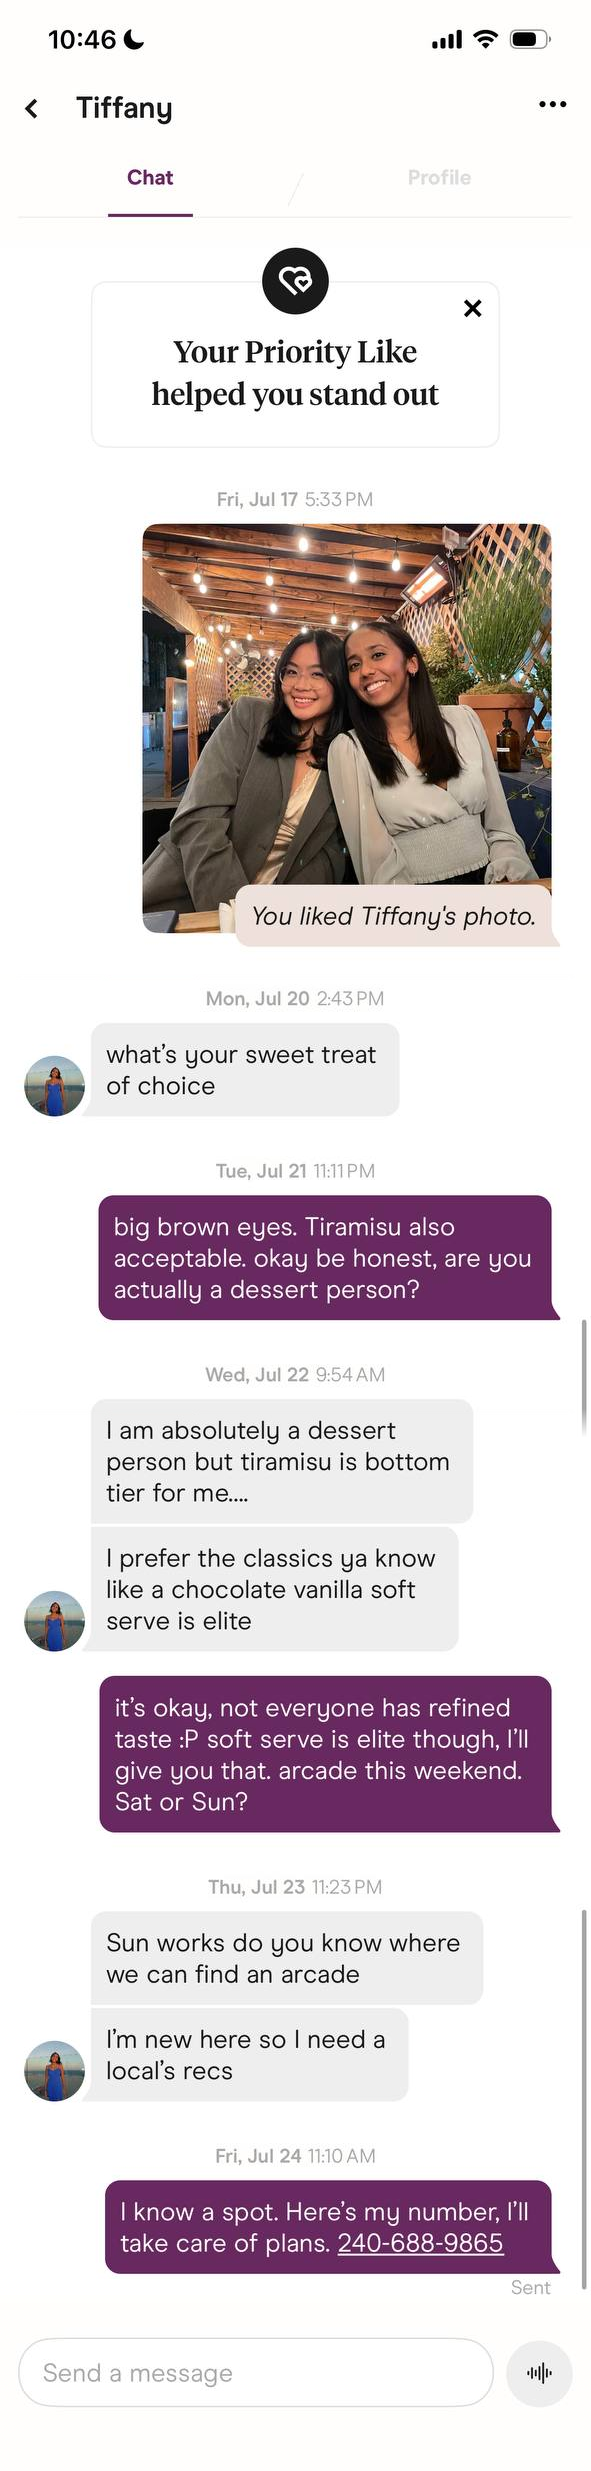
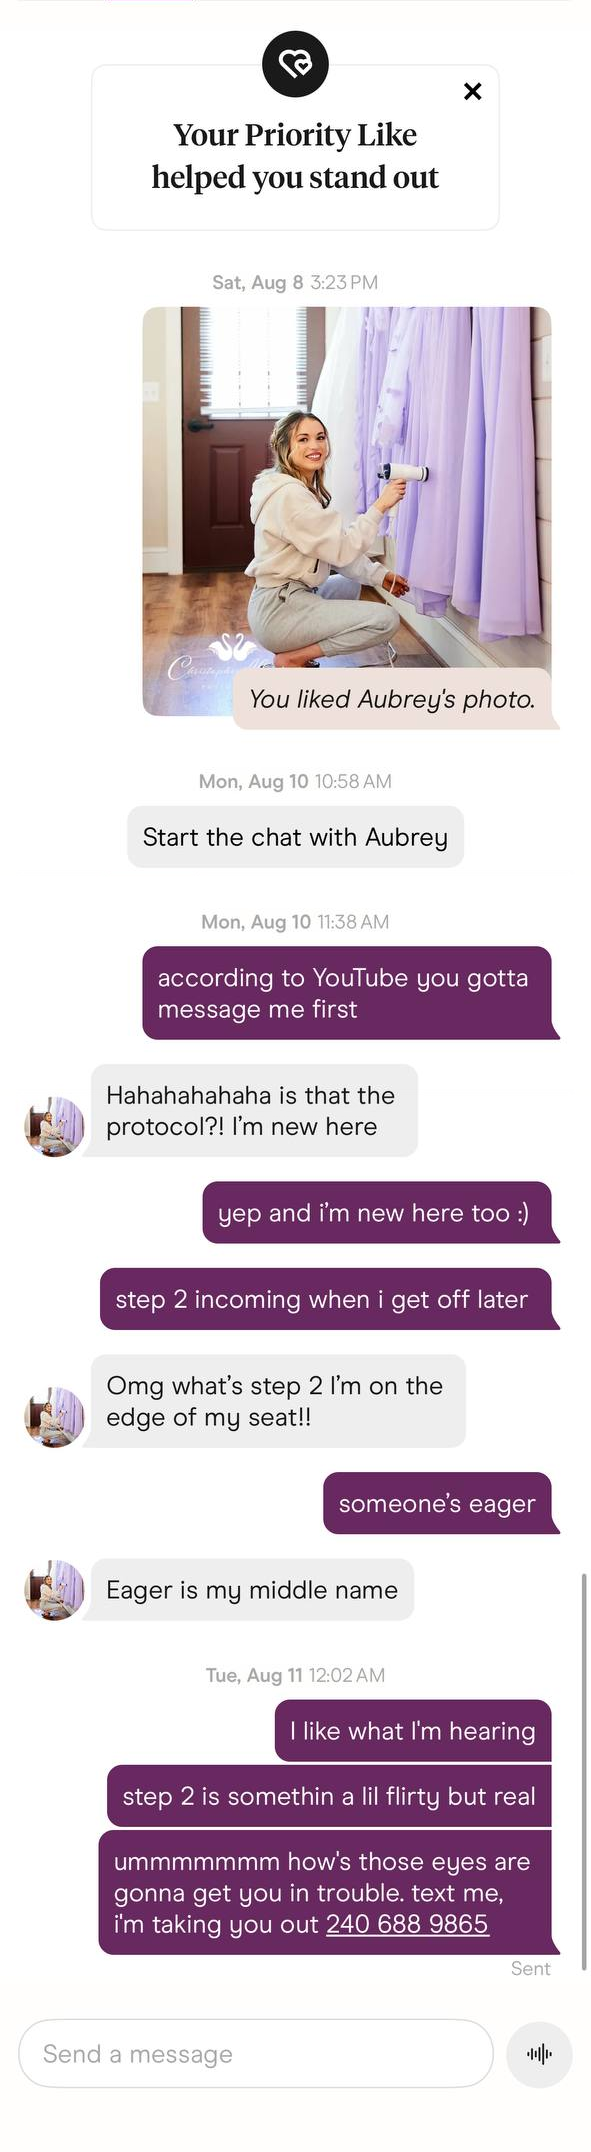
Remove top status bar

diff --git a/stitch.py b/stitch.py
@@ -41,14 +41,34 @@ def parse_args():
         help="Disable automatic static header/footer region detection."
     )
     parser.add_argument(
-        "--keep-header-footer", action="store_true", default=True,
-        help="Re-attach top header from 1st frame and bottom footer from last frame around stitched body (default: True)."
+        "--keep-header-footer", action="store_true", default=None,
+        help="Legacy flag: Re-attach both top header and bottom footer around stitched body."
+    )
+    parser.add_argument(
+        "--keep-header", action="store_true", default=False,
+        help="Re-attach top status bar header from 1st frame (default: False)."
+    )
+    parser.add_argument(
+        "--no-header", action="store_false", dest="keep_header",
+        help="Do not re-attach top status bar header (default behavior)."
+    )
+    parser.add_argument(
+        "--keep-footer", action="store_true", default=True,
+        help="Re-attach bottom footer from last frame (default: True)."
+    )
+    parser.add_argument(
+        "--no-footer", action="store_false", dest="keep_footer",
+        help="Do not re-attach bottom footer."
     )
     parser.add_argument(
         "--blend-height", type=int, default=30,
         help="Height of the alpha cross-fade seam blending zone in pixels (default: 30)."
     )
-    return parser.parse_args()
+    args = parser.parse_args()
+    if args.keep_header_footer is not None:
+        args.keep_header = args.keep_header_footer
+        args.keep_footer = args.keep_header_footer
+    return args
 
 
 def load_and_sort_images(inputs: Optional[List[str]]) -> List[np.ndarray]:
@@ -186,7 +206,8 @@ def stitch_sequence(
     crop_top: Optional[int] = None,
     crop_bottom: Optional[int] = None,
     auto_crop: bool = True,
-    keep_header_footer: bool = True,
+    keep_header: bool = False,
+    keep_footer: bool = True,
     blend_height: int = 30
 ) -> np.ndarray:
     """Stitch a sequence of images into one continuous stitched image."""
@@ -210,11 +231,10 @@ def stitch_sequence(
             bottom_crops[i + 1] = max(bottom_crops[i + 1], crop_bottom if crop_bottom is not None else b_crop)
 
     # Save header/footer if re-attaching
-    if keep_header_footer:
-        if top_crops[0] > 0:
-            header_strip = images[0][:top_crops[0]].copy()
-        if bottom_crops[-1] > 0:
-            footer_strip = images[-1][-bottom_crops[-1]:].copy()
+    if keep_header and top_crops[0] > 0:
+        header_strip = images[0][:top_crops[0]].copy()
+    if keep_footer and bottom_crops[-1] > 0:
+        footer_strip = images[-1][-bottom_crops[-1]:].copy()
 
     # Crop body contents
     cropped_images = []
@@ -309,7 +329,8 @@ def main():
         crop_top=args.crop_top,
         crop_bottom=args.crop_bottom,
         auto_crop=not args.no_auto_crop,
-        keep_header_footer=args.keep_header_footer,
+        keep_header=args.keep_header,
+        keep_footer=args.keep_footer,
         blend_height=args.blend_height
     )
 

diff --git a/implementation_plans/05_IMPLEMENTATION_.md b/implementation_plans/05_IMPLEMENTATION_.md
@@ -1,0 +1,63 @@
+# Implementation Plan 05 - Update stitch.py to Remove Top Status Bar (Time & Battery Indicator)
+
+This plan details the updates to [stitch.py](file:///Users/khandpv1/Desktop/.AntiGrav/hinge-tracker/stitch.py) to remove the top status bar (containing time, battery indicator, and signal icons) above the user profile name when stitching scrolling screenshots.
+
+## Confirmed Technical Decisions (via /grill-me)
+- **Separate Header/Footer Controls**: Introduce explicit CLI options `--keep-header` (default: `False`) and `--keep-footer` (default: `True`).
+- **Status Bar Removal by Default**: Setting `keep_header` default to `False` ensures `stitch_sequence()` crops out static top header margins (time & battery bar) and omits prepending the top status strip from the output.
+- **Bottom Footer Retention**: Retain bottom navigation bar / footer by default (`keep_footer=True`).
+- **Backward Compatibility**: Preserve `--keep-header-footer` legacy flag support by mapping it to control both header and footer flags simultaneously.
+
+---
+
+## Technical Architecture & Code Changes
+
+```
+Before Update:
+stitch_sequence(images, ..., keep_header_footer=True)
+  ├── Detects static top/bottom margins
+  ├── Saves top status bar (time & battery) as header_strip
+  └── Stack: [header_strip, canvas, footer_strip] (Status bar remains visible at top)
+
+After Update:
+stitch_sequence(images, ..., keep_header=False, keep_footer=True)
+  ├── Detects static top/bottom margins (crops status bar out of body frames)
+  ├── Saves footer_strip only
+  └── Stack: [canvas, footer_strip] (Status bar completely removed)
+```
+
+---
+
+## Proposed Changes
+
+### Stitching Module
+
+#### [MODIFY] [stitch.py](file:///Users/khandpv1/Desktop/.AntiGrav/hinge-tracker/stitch.py)
+- Update `parse_args()` to include `--keep-header` (default `False`), `--keep-footer` (default `True`), `--no-header`, `--no-footer`, and handle legacy `--keep-header-footer`.
+- Update `stitch_sequence()` parameter signatures: `keep_header: bool = False`, `keep_footer: bool = True`.
+- Decouple top header strip saving and prepending (`if keep_header: ...`) from bottom footer strip saving and appending (`if keep_footer: ...`).
+- Pass `keep_header` and `keep_footer` from `main()` to `stitch_sequence()`.
+
+---
+
+## Implementation Checklist
+
+- [x] **Step 1: Update CLI Arguments & Functions in stitch.py**
+  - [x] Modify `parse_args()` in [stitch.py](file:///Users/khandpv1/Desktop/.AntiGrav/hinge-tracker/stitch.py) to add `--keep-header` and `--keep-footer`.
+  - [x] Update `stitch_sequence()` in [stitch.py](file:///Users/khandpv1/Desktop/.AntiGrav/hinge-tracker/stitch.py) to decouple header and footer strip logic.
+  - [x] Update `main()` call signature in [stitch.py](file:///Users/khandpv1/Desktop/.AntiGrav/hinge-tracker/stitch.py).
+
+- [x] **Step 2: Execution & Verification**
+  - [x] Run `python3 stitch.py -i synthetic_frames_01 -o stitched.png`.
+  - [x] Verify that top status bar (time & battery indicator) is removed while bottom footer is retained.
+
+---
+
+## Verification Plan
+
+### Automated / Command-line Verification
+- Run test stitch command:
+  ```bash
+  python3 stitch.py -i synthetic_frames_01 -o stitched.png
+  ```
+- Check output image dimension and inspect frame top boundary.
